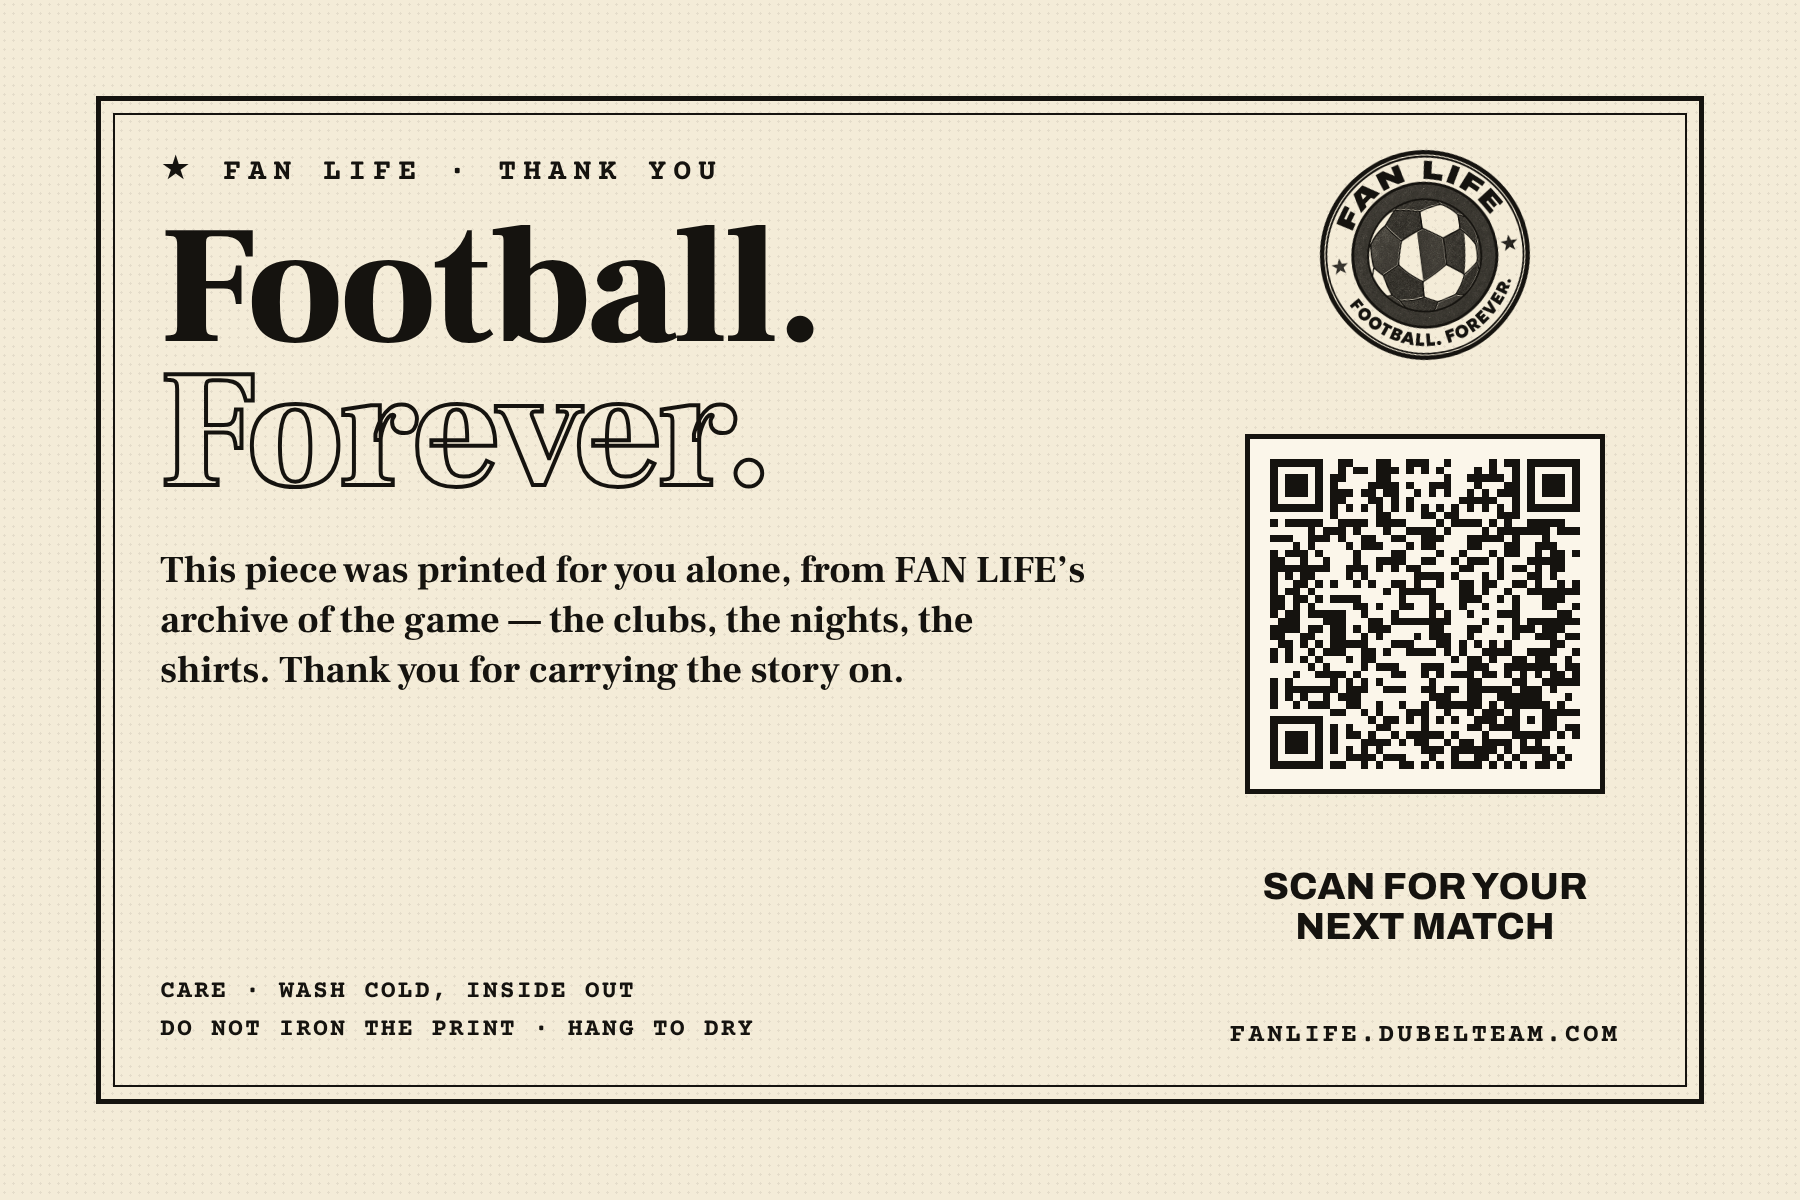
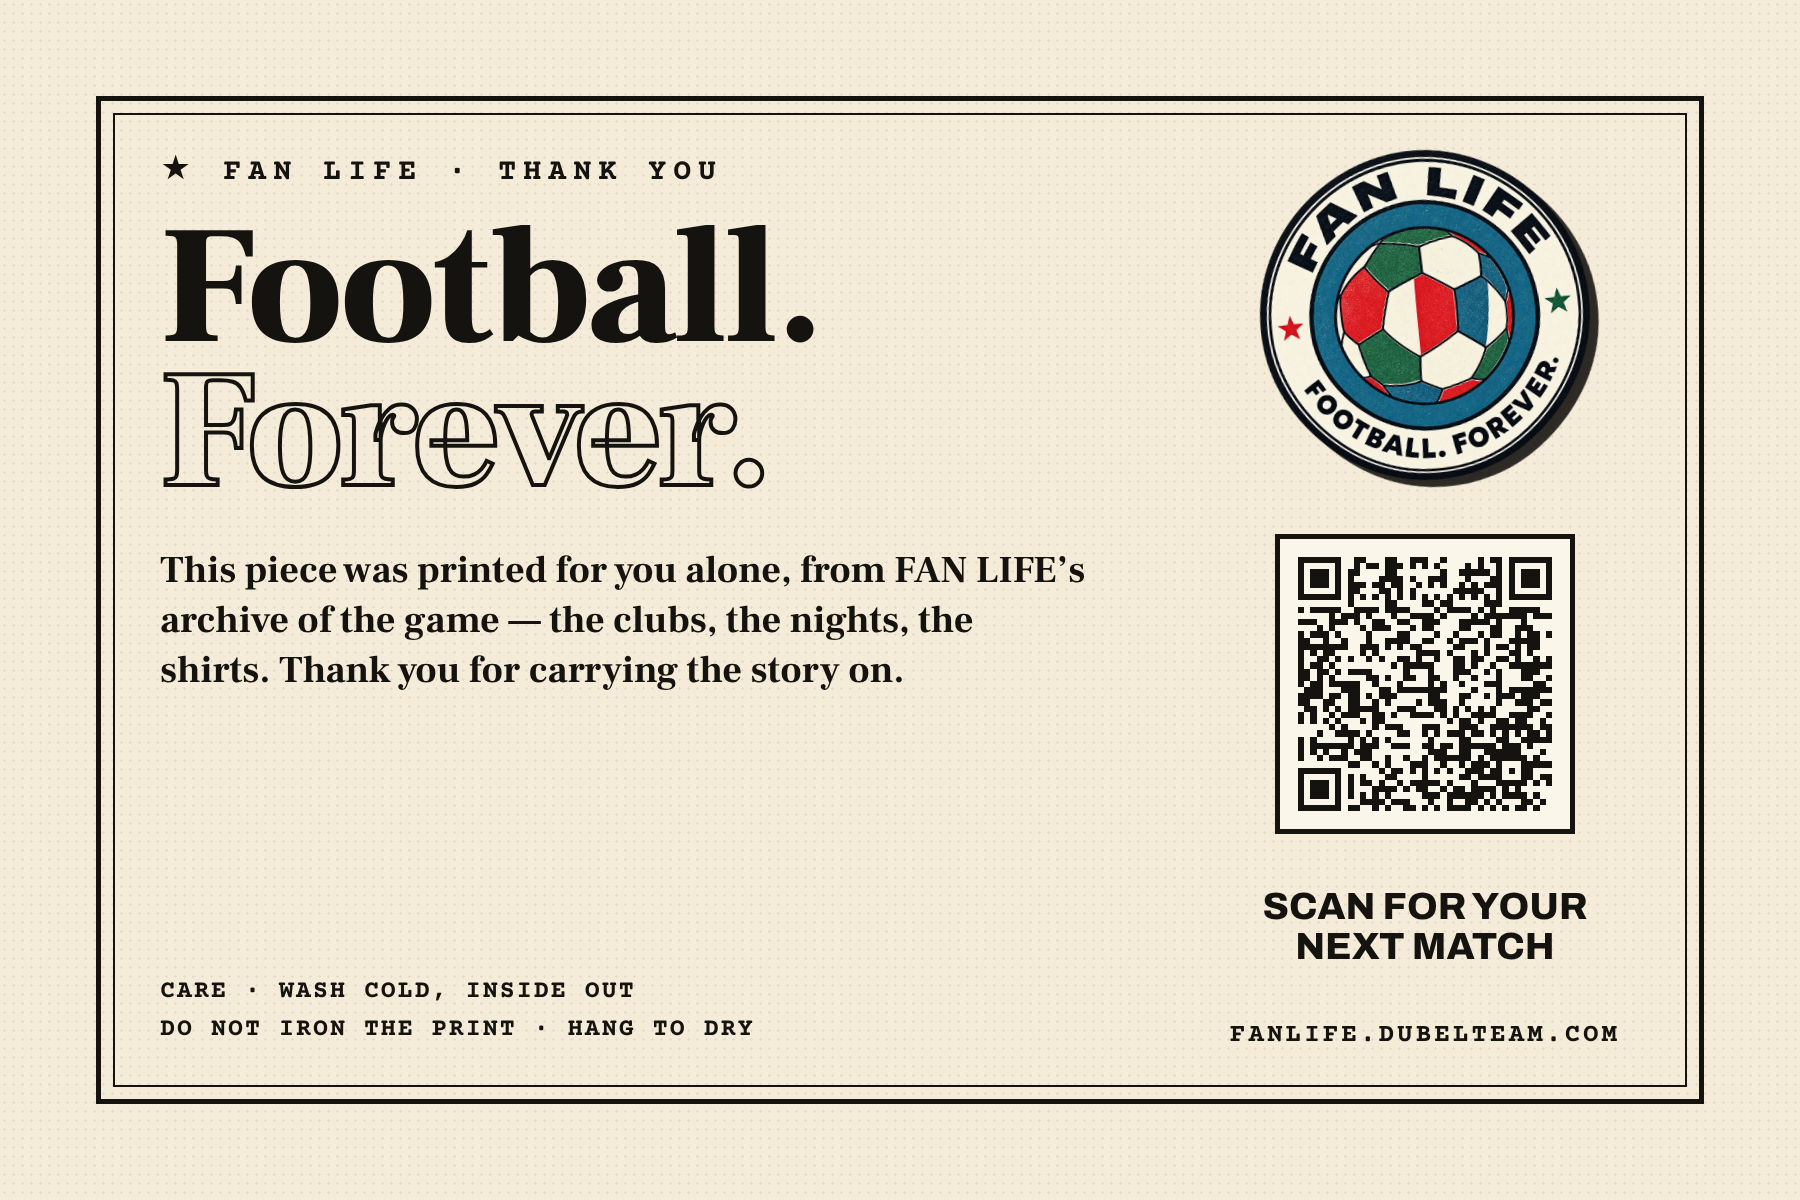
Shop branding: the order card carries the colour FAN LIFE seal
Claude-Session: https://claude.ai/code/session_01M6WcLuueduTkaZCRpidNvV

Changed region(s): [[0.6844, 0.1233, 0.9022, 0.8017]]

diff --git a/scripts/brand/postcard.html b/scripts/brand/postcard.html
@@ -15,7 +15,7 @@
 .f h1{position:absolute;left:112px;top:210px;font-family:Frank;font-weight:900;font-size:212px;line-height:.86;letter-spacing:-4px}
 .f h1 i{font-style:normal;color:transparent;-webkit-text-stroke:5px #15130F}
 .f .sub{position:absolute;left:120px;top:690px;width:900px;font-family:Frank;font-weight:700;font-size:50px;line-height:1.22}
-.f .seal{position:absolute;right:120px;top:130px;width:430px;height:430px;transform:rotate(-8deg)}
+.f .seal{position:absolute;right:120px;top:130px;width:430px;height:430px;transform:rotate(-8deg);filter:drop-shadow(10px 10px 0 rgba(21,19,15,.9))}
 .f .foot{position:absolute;left:120px;right:120px;bottom:118px;display:flex;justify-content:space-between;align-items:flex-end;font-family:Mono;font-size:30px;letter-spacing:6px;text-transform:uppercase}
 .f .stub{position:absolute;right:120px;top:640px;width:430px;padding:26px 30px;border:4px dashed #15130F;transform:rotate(-8deg);font-family:Mono;font-size:28px;letter-spacing:4px;line-height:1.5;text-transform:uppercase;text-align:center}
 .f .stub b{display:block;font-family:Archivo;font-size:66px;letter-spacing:0;line-height:1.1}
@@ -31,13 +31,13 @@
 .b .qr img{width:100%;height:100%}
 .b .scan{font-family:Archivo;font-weight:800;font-size:46px;line-height:1.05;text-transform:uppercase;letter-spacing:1px}
 .b .url{font-family:Mono;font-size:30px;letter-spacing:4px}
-.b .label{width:230px;height:230px}
+.b .label{width:210px;height:210px}
 </style></head><body>
 <div class="card f" id="front"><div class="paper"></div><div class="frame"></div>
 <div class="k"><b>★</b> Fan Life · Thank you</div>
 <h1>Football.<br><i>Forever.</i></h1>
 <p class="sub">Made for you, to order — one supporter at a time.</p>
-<img class="seal" src="../../public/brand/fanlife/seal-ink.png">
+<img class="seal" src="../../public/brand/fanlife/logo-512.png">
 <div class="stub">Admit one<b>The next match</b>is yours</div>
 <div class="foot"><span>Printed for a supporter</span><span>fanlife.dubelteam.com</span></div>
 </div>
@@ -48,5 +48,5 @@
 <p>This piece was printed for you alone, from FAN LIFE’s archive of the game — the clubs, the nights, the shirts. Thank you for carrying the story on.</p>
 <div class="care">Care · wash cold, inside out<br>Do not iron the print · hang to dry</div></div>
 <div class="rule"></div>
-<div class="right"><img class="label" src="../../public/brand/fanlife/neck-label-ink.png"><div class="qr"><img src="postcard-qr.svg"></div><div class="scan">Scan for your<br>next match</div><div class="url">FANLIFE.DUBELTEAM.COM</div></div>
+<div class="right"><img class="label" src="../../public/brand/fanlife/logo-512.png"><div class="qr"><img src="postcard-qr.svg"></div><div class="scan">Scan for your<br>next match</div><div class="url">FANLIFE.DUBELTEAM.COM</div></div>
 </div></body></html>

diff --git a/scripts/brand/package-insert.html b/scripts/brand/package-insert.html
@@ -42,8 +42,8 @@
 .i p{margin-top:40px;font-family:Frank;font-weight:700;font-size:38px;line-height:1.32}
 .i .care{position:absolute;left:160px;bottom:150px;font-family:Mono;font-size:25px;letter-spacing:2px;line-height:1.55;text-transform:uppercase}
 .i .right{position:absolute;right:160px;top:150px;bottom:150px;width:430px;display:flex;flex-direction:column;align-items:center;justify-content:space-between;text-align:center}
-.i .seal{width:210px;height:210px;transform:rotate(-8deg)}
-.i .qr{width:360px;height:360px;padding:20px;border:5px solid #15130F;background:#FBF6EA}
+.i .seal{width:330px;height:330px;transform:rotate(-6deg);filter:drop-shadow(8px 8px 0 rgba(21,19,15,.9))}
+.i .qr{width:300px;height:300px;padding:18px;border:5px solid #15130F;background:#FBF6EA}
 .i .qr img{width:100%;height:100%}
 .i .scan{font-family:Archivo;font-weight:800;font-size:38px;line-height:1.05;text-transform:uppercase}
 .i .url{font-family:Mono;font-size:26px;letter-spacing:3px}
@@ -53,5 +53,5 @@
 <h1>Football.<br><i>Forever.</i></h1>
 <p>This piece was printed for you alone, from FAN LIFE’s archive of the game — the clubs, the nights, the shirts. Thank you for carrying the story on.</p></div>
 <div class="care">Care · wash cold, inside out<br>Do not iron the print · hang to dry</div>
-<div class="right"><img class="seal" src="../../public/brand/fanlife/seal-ink.png"><div class="qr"><img src="postcard-qr.svg"></div><div class="scan">Scan for your<br>next match</div><div class="url">FANLIFE.DUBELTEAM.COM</div></div>
+<div class="right"><img class="seal" src="../../public/brand/fanlife/logo-512.png"><div class="qr"><img src="postcard-qr.svg"></div><div class="scan">Scan for your<br>next match</div><div class="url">FANLIFE.DUBELTEAM.COM</div></div>
 </div></body></html>

diff --git a/docs/rules/shop-brand-label-postcard.md b/docs/rules/shop-brand-label-postcard.md
@@ -1,5 +1,5 @@
 # Shop branding: the neck label only, a postcard in every order (owner, 15.11.2026)
 
 - **FAN LIFE prints on the inside neck label of a garment, and nowhere else** — no sleeve mark, no back-of-neck mark. Small and dignified: the seal, FAN LIFE, a rule and the address, at 56% of the label area, centred. One ink (`public/brand/fanlife/neck-label-ink.png`); the light ink (`neck-label-light.png`) on dark colours, chosen per colour by `labelInk`. Only where the printer offers a label print and the design does not use it. A club's rival colours never appear: the label has no colour of its own.
-- **Every order carries the FAN LIFE card.** Printify inserts print one side only, so the card in the box is `public/brand/fanlife/package-insert.png` (6×4 in, 1800×1200 px, 300 dpi, everything inside a 160 px safe margin; source `scripts/brand/package-insert.html`): the thank-you, the care line and a QR to the site (utm_source=postcard). Club-neutral, one ink on cream. The two-sided `postcard-front.png` / `postcard-back.png` stay for a printer that offers both sides. The design is saved in Printify → Store settings → Branding → Package inserts; enabling it costs $0.25 per order on the free plan ($0.15 with Premium), is not offered on Express orders, and waits for the owner's yes because it accepts Printify's terms and adds a charge.
+- **Every order carries the FAN LIFE card.** Printify inserts print one side only, so the card in the box is `public/brand/fanlife/package-insert.png` (6×4 in, 1800×1200 px, 300 dpi, everything inside a 160 px safe margin; source `scripts/brand/package-insert.html`): the thank-you, the care line and a QR to the site (utm_source=postcard). Club-neutral, on cream, with the colour FAN LIFE seal (the neck label stays one ink; the card carries the colour logo — owner, 15.11.2026). The two-sided `postcard-front.png` / `postcard-back.png` stay for a printer that offers both sides. The design is saved in Printify → Store settings → Branding → Package inserts; enabling it costs $0.25 per order on the free plan ($0.15 with Premium), is not offered on Express orders, and waits for the owner's yes because it accepts Printify's terms and adds a charge.
 - **Soft prints**: when a picture is smaller than the print it covers, the press sends a high-quality enlargement (Lanczos + light sharpen, up to 4×, 36 MP) and records `printify.upscaled`. It adds no detail; the desk names the products whose original should be replaced by a sharper file.
